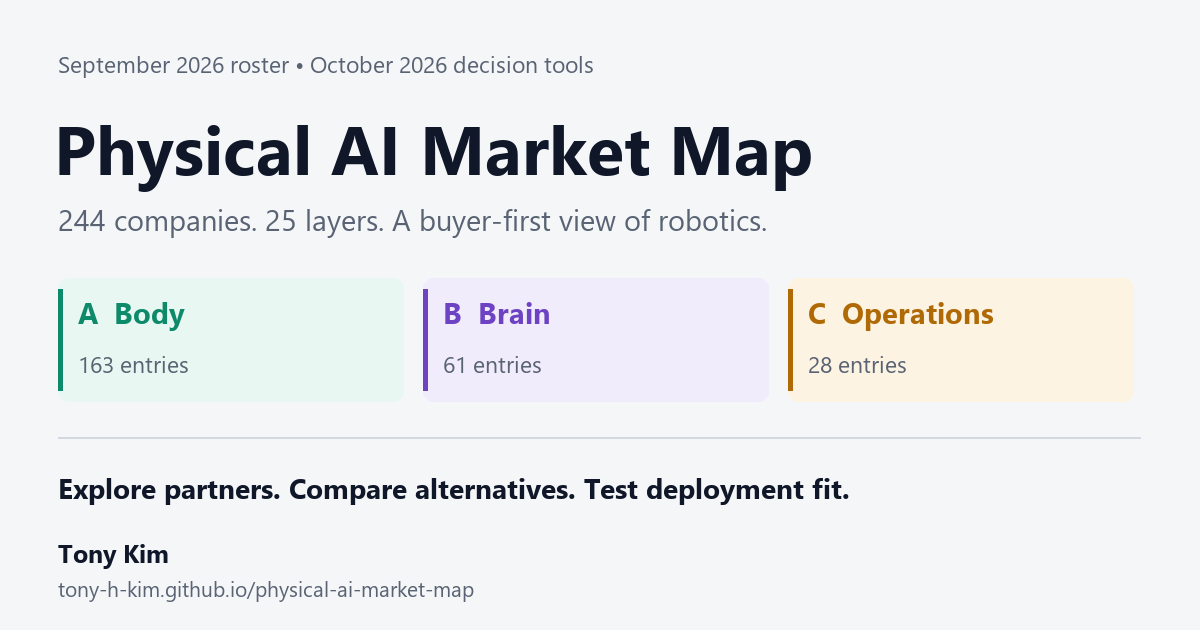
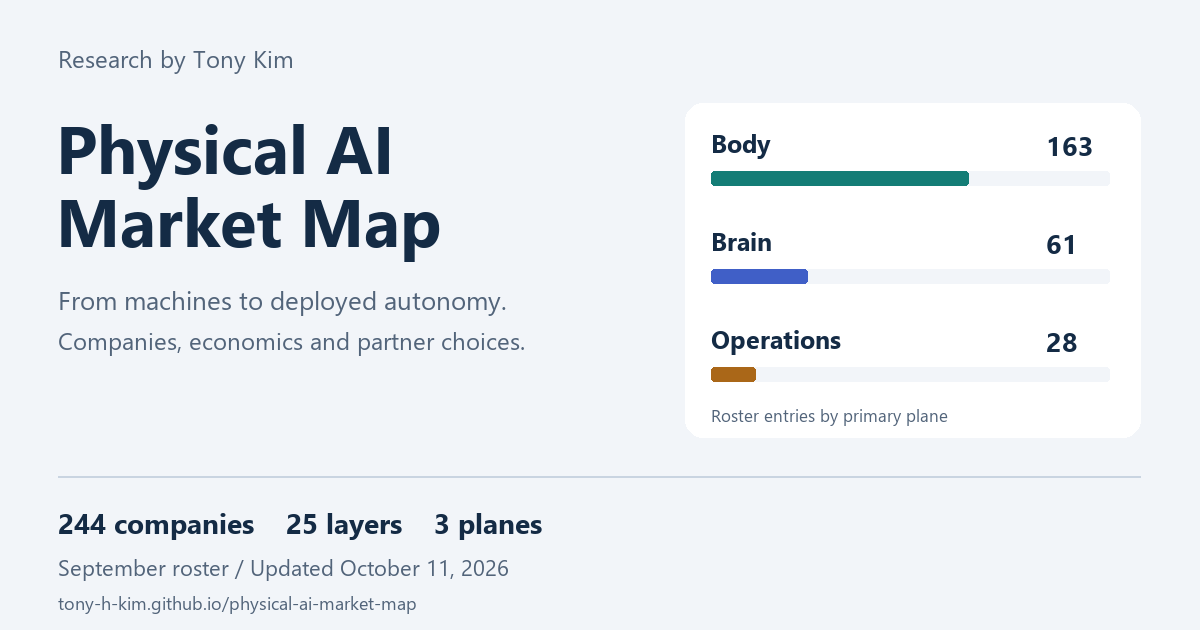
Redesign research overview with interactive landscape charts

diff --git a/index.html b/index.html
@@ -22,7 +22,7 @@
 <title>Physical AI Market Map 2026</title>
 <link rel="preconnect" href="https://fonts.googleapis.com">
 <link rel="preconnect" href="https://fonts.gstatic.com" crossorigin>
-<link rel="stylesheet" href="https://fonts.googleapis.com/css2?family=Inter:wght@400;500;600;700&family=JetBrains+Mono:wght@400;500;600&display=swap">
+<link rel="stylesheet" href="https://fonts.googleapis.com/css2?family=IBM+Plex+Sans:wght@400;500;600;700&family=Inter:wght@400;500;600;700&display=swap">
 <style>
   :root{
     --bg:#f4f6f8; --card:#ffffff; --sub:#fafbfc;
@@ -578,18 +578,109 @@
   @media(max-width:820px){.wb-layout{grid-template-columns:1fr}.wb-partner dl{grid-template-columns:1fr;gap:3px}.wb-partner dd{margin-bottom:8px}.workload-launch{grid-template-columns:repeat(3,minmax(0,1fr))}.workload-launch #export-filtered{justify-self:start;grid-column:1/-1}}
   @media(max-width:480px){header{padding-top:6px}header .meta{line-height:1.6}.theme-control{float:none;display:block;margin:0 0 12px}.workload-launch{grid-template-columns:1fr}.workload-launch button[data-workload]{padding:10px 12px}.wb-partner,.wb-brief{padding:16px}.wb-partner dl{line-height:1.55}.wb-brief p,.wb-brief li{font-size:var(--fs-xs)}}
   @media(prefers-reduced-motion:reduce){*,*::before,*::after{scroll-behavior:auto!important;transition:none!important;animation:none!important}}
+
+  header.compact .hero{display:block}header.compact .hero-figure,header.compact .sub{display:none}header.compact h1{font-size:var(--fs-h2);max-width:none;margin:0;letter-spacing:-.02em}header.compact h1 br{display:none}header.compact .masthead{margin-bottom:14px}header.compact .hero-meta{margin-top:14px;padding-top:10px}header.compact{padding-bottom:16px}
+  /* Research canvas: charts share a surface; the system diagram carries the identity. */
+  :root{--bg:#f2f5f9;--card:#ffffff;--sub:#f6f8fb;--fg:#142b45;--ink:#142b45;--fg2:#52647a;--fg3:#596b80;--line:#e0e7ef;--line2:#c9d4e1;--body:#147d76;--bodybg:#e7f4f1;--brain:#405fc7;--brainbg:#edf0fc;--ops:#aa6718;--opsbg:#fbf1e2;--info:#3156b5;--sans:Inter,"Segoe UI",Arial,sans-serif;--display:"IBM Plex Sans",Inter,"Segoe UI",sans-serif;--fs-display:clamp(34px,4vw + 10px,66px);--fs-metric:clamp(28px,1.4vw + 18px,42px)}
+  :root[data-theme="dark"]{--bg:#101c2a;--card:#172638;--sub:#1c2e43;--fg:#edf3fb;--ink:#edf3fb;--fg2:#b3c3d7;--fg3:#a2b5cd;--line:#30445d;--line2:#455d78;--body:#69c6ba;--bodybg:#1b393c;--brain:#9daff8;--brainbg:#263451;--ops:#efbb76;--opsbg:#3e3326;--info:#a7c2ff}
+  @media(prefers-color-scheme:dark){:root:not([data-theme="light"]){--bg:#101c2a;--card:#172638;--sub:#1c2e43;--fg:#edf3fb;--ink:#edf3fb;--fg2:#b3c3d7;--fg3:#a2b5cd;--line:#30445d;--line2:#455d78;--body:#69c6ba;--bodybg:#1b393c;--brain:#9daff8;--brainbg:#263451;--ops:#efbb76;--opsbg:#3e3326;--info:#a7c2ff}}
+  .wrap{max-width:1440px;padding-top:24px}
+  h1,h2,h3,.oc-n,.pn{font-family:var(--display)}
+  header{padding:8px 0 22px;border-bottom:0}
+  .masthead{display:flex;align-items:center;justify-content:space-between;gap:16px;margin-bottom:24px;color:var(--fg2);font-size:var(--fs-xs)}
+  .masthead .theme-control{float:none;border-radius:20px;padding:6px 14px;background:transparent}
+  .hero{display:grid;grid-template-columns:minmax(0,1.25fr) minmax(0,1fr);gap:48px;align-items:center}
+  h1{max-width:12ch;font-weight:600;letter-spacing:-.045em;line-height:1.02;margin:0 0 20px}
+  header .sub{max-width:54ch;font-size:var(--fs-lede);line-height:1.55}
+  .hero-figure{margin:0;background:var(--card);border-radius:20px;padding:20px 24px 10px;overflow:hidden}
+  .hero-figure svg{display:block;width:100%;height:auto;min-width:0;font-family:var(--sans)}
+  .hero-figure figcaption{font-size:var(--fs-3xs);color:var(--fg2);text-align:center;margin:5px 0 8px}
+  .system-line{stroke:var(--line2);fill:none;stroke-width:2}
+  .system-box{stroke:none;fill:var(--sub)}
+  .system-label{fill:var(--fg);font-size:var(--fs-lede);font-weight:600}
+  .system-detail{fill:var(--fg2);font-size:var(--fs-xs)}
+  .system-a{fill:var(--body)}.system-b{fill:var(--brain)}.system-c{fill:var(--ops)}
+  .hero-meta{display:flex;align-items:center;gap:24px;flex-wrap:wrap;margin-top:24px;padding-top:16px;border-top:1px solid var(--line2);font-size:var(--fs-xs);color:var(--fg2)}
+  .hero-meta strong{font-weight:600;color:var(--fg)}
+  .research-notes{font-size:var(--fs-3xs);margin-left:auto;max-width:70ch}
+  .research-notes summary{cursor:pointer;color:var(--fg2)}.research-notes p{font-size:var(--fs-xs);margin:8px 0 0}
+  nav.tabs{background:var(--bg);border-bottom:1px solid var(--line2);padding:0;margin:0 0 22px;gap:28px}
+  .tab{border:0;border-bottom:3px solid transparent;border-radius:0;padding:12px 2px;background:transparent;box-shadow:none;font-size:var(--fs-sm);font-weight:600}
+  .tab[aria-selected="true"]{background:transparent;color:var(--fg);border-color:var(--body);box-shadow:none}
+  .tab:hover{border-bottom-color:var(--line2)}
+  .viewbar{gap:4px;flex-wrap:wrap;background:none;border:0;padding:0}
+  .vb{border:0!important;background:transparent;border-radius:6px;padding:8px 11px;font-size:var(--fs-xs);color:var(--fg2)}
+  .vb[aria-selected="true"]{background:var(--ink);color:var(--onink)}
+  .viewrow{align-items:flex-start;gap:18px}.vsearch input{min-width:230px;padding:9px 12px}
+  .viewhint{font-size:var(--fs-xs);margin-bottom:12px;max-width:78ch}
+  .count{font-family:var(--sans)}.count .csub{display:none}
+  .result-actions{display:flex;gap:8px;flex-wrap:wrap;align-items:center}.resultbar{margin-bottom:16px}.countrow{align-items:center}.count{margin-bottom:0}
+  .filter-disclosure{border-bottom:1px solid var(--line);padding-bottom:5px}.filter-disclosure>summary{padding:8px 0}
+  .overview-title{display:flex;justify-content:space-between;gap:20px;align-items:baseline;margin:16px 0}
+  .overview-title h2{margin:0}.overview-title p{font-size:var(--fs-xs);color:var(--fg2);margin:0;max-width:52ch}
+  .research-canvas{background:var(--card);border:1px solid var(--line);border-radius:14px;overflow:hidden;display:grid;grid-template-columns:1fr 1fr}
+  .chart-section{padding:26px 30px;min-width:0}
+  .chart-section:nth-child(2n){border-left:1px solid var(--line)}.chart-section:nth-child(n+3){border-top:1px solid var(--line)}
+  .chart-section h3{font-family:var(--display);font-size:var(--fs-lede);margin:0 0 5px;font-weight:600}
+  .chart-caption{font-size:var(--fs-xs);color:var(--fg2);line-height:1.5;margin:0 0 20px;max-width:64ch}
+  .chart-foot{font-size:var(--fs-3xs);color:var(--fg2);margin:18px 0 0;max-width:72ch}
+  .stack-row{display:grid;grid-template-columns:120px minmax(0,1fr) 42px;gap:16px;align-items:center;width:100%;background:none;color:var(--fg);font:inherit;border:0;border-radius:5px;text-align:left;padding:12px 0;cursor:pointer}
+  .stack-row:hover,.plot-row:hover{background:var(--sub)}
+  .stack-row .stack-name{font-size:var(--fs-sm);font-weight:600}.stack-row .stack-value{font-family:var(--display);font-size:var(--fs-metric);text-align:right;line-height:1}
+  .plot-track{display:flex;background:var(--sub);height:12px;border-radius:3px;overflow:hidden}.plot-segment{height:100%;min-width:0}.plot-segment.A{background:var(--body)}.plot-segment.B{background:var(--brain)}.plot-segment.C{background:var(--ops)}
+  .stack-row .plot-track{height:20px}
+  .chart-key{display:flex;flex-wrap:wrap;gap:12px;margin:14px 0;font-size:var(--fs-3xs);color:var(--fg2)}.chart-key span{display:inline-flex;align-items:center;gap:6px}.chart-dot{width:8px;height:8px;border-radius:50%;background:var(--body)}.chart-dot.B{background:var(--brain)}.chart-dot.C{background:var(--ops)}
+  .plot-row{display:grid;grid-template-columns:100px minmax(0,1fr) 32px;gap:12px;align-items:center;width:100%;border:0;background:none;border-radius:4px;font:inherit;color:var(--fg);text-align:left;padding:7px 0;cursor:pointer}
+  .plot-label{font-size:var(--fs-xs);line-height:1.3}.plot-value{font-size:var(--fs-xs);font-weight:600;text-align:right; font-variant-numeric:tabular-nums}
+  .plot-axis{display:flex;justify-content:space-between;margin:2px 44px 8px 112px;font-size:var(--fs-3xs);color:var(--fg2)}
+  .model-chart .plot-row{grid-template-columns:145px minmax(0,1fr) 32px}.model-chart .plot-axis{margin-left:157px}
+  .stage-row{margin:0 0 16px}.stage-heading{font-size:var(--fs-xs);display:flex;justify-content:space-between;margin:0 0 7px;color:var(--fg2)}.stage-heading b{color:var(--fg)}
+  .stage-track{height:32px;display:flex;border-radius:4px;overflow:hidden;background:var(--sub)}
+  .stage-cell{border:0;padding:0;min-width:0;cursor:pointer;background:var(--sub);color:var(--fg);font:inherit;font-size:var(--fs-3xs);font-weight:600;position:relative}
+  .stage-cell.res{background:var(--line2)}.stage-cell.pilot{background:var(--brainbg);box-shadow:inset 0 0 0 1px var(--brain)}.stage-cell.comm{background:var(--bodybg);box-shadow:inset 0 0 0 1px var(--body)}.stage-cell.scaled{background:var(--body);color:var(--card)}
+  .stage-cell:hover{filter:brightness(.92)}.stage-cell:focus-visible{outline-offset:-3px}.stage-legend span{display:flex;align-items:center;gap:6px}.stage-legend .stage-cell{width:12px;height:12px;display:inline-block;border-radius:2px;cursor:default;flex:none}
+  .stage-legend{display:grid;grid-template-columns:1fr 1fr;gap:8px 16px;margin-top:20px;font-size:var(--fs-xs);color:var(--fg2)}.stage-legend b{color:var(--fg)}
+  .atlas{margin-top:26px;border-bottom:1px solid var(--line2);padding-bottom:22px}.atlas>summary{cursor:pointer;font-family:var(--display);font-size:var(--fs-lede);font-weight:600;color:var(--fg)}.atlas>p{color:var(--fg2);font-size:var(--fs-xs);margin:8px 0 20px}
+  .atlas-grid{display:grid;grid-template-columns:repeat(3,minmax(0,1fr));gap:36px;margin-top:20px}.atlas-plane h3{margin:0 0 12px}.atlas-row{display:grid;grid-template-columns:minmax(0,1fr) 66px 22px;gap:8px;align-items:center;background:none;border:0;border-bottom:1px solid var(--line);width:100%;font:inherit;font-size:var(--fs-3xs);text-align:left;color:var(--fg);padding:9px 0;cursor:pointer}.atlas-row:hover{color:var(--info)}
+  .atlas-row .plot-track{height:6px}.atlas-row .plot-value{font-size:var(--fs-3xs)}
+  .route-heading{margin:28px 0 14px!important}.overview-routes{display:grid;grid-template-columns:repeat(3,minmax(0,1fr));gap:28px}.route-button{border:0;border-top:3px solid var(--line2);background:none;padding:18px 0;text-align:left;color:var(--fg);cursor:pointer;font:inherit}.route-button:hover{border-color:var(--body)}.route-button strong{display:block;font-family:var(--display);font-size:var(--fs-body);margin-bottom:5px}.route-button span{display:block;color:var(--fg2);font-size:var(--fs-xs);max-width:38ch}.route-button em{display:inline-block;font-style:normal;font-size:var(--fs-xs);color:var(--info);margin-top:12px}
+  .planehead{padding:18px 22px}.plane{border-radius:10px}.lmeta{background:var(--card)}.lcode{font-family:var(--sans);color:var(--fg2)}.grp{background:var(--sub)}.co .g{font-family:var(--sans)}
+  .ocard{border-radius:8px;background:var(--card)}.oc-b{font-family:var(--sans);letter-spacing:0;text-transform:none}
+  #t-insights .h2sub,#t-method .h2sub,#t-insights>div>p,#t-method>div>p,.noteblock p{max-width:78ch}
+  .lede{box-shadow:none;border-radius:6px;line-height:1.65}.tblwrap{box-shadow:none;border-radius:8px}.screen tbody tr:hover{background:var(--sub)}
+  .subtabs{gap:6px}.noteblock{margin-top:36px}footer{box-shadow:none;background:transparent;border:0;border-top:1px solid var(--line2);border-radius:0;padding:20px 0}
+  body:has(.vh-overview) .workload-launch{display:none}
+  @media(max-width:1050px){.hero{gap:24px;grid-template-columns:1.15fr 1fr}.viewrow{flex-direction:column}.vsearch{width:100%;max-width:none;flex:0 0 auto;margin-left:0}.vsearch input{width:100%}.chart-section{padding:22px}.research-notes{margin-left:0}}
+  @media(max-width:760px){.wrap{padding-top:16px}.hero{grid-template-columns:1fr;gap:20px}h1{max-width:18ch;--fs-display:clamp(34px,6vw,48px);margin-bottom:14px}.hero-figure{max-width:540px;padding:12px 20px 6px}.hero-figure svg{max-height:220px}.masthead{margin-bottom:18px}.hero-meta{gap:10px 20px;margin-top:18px}.research-canvas{grid-template-columns:1fr}.chart-section:nth-child(2n){border-left:0}.chart-section:nth-child(n+2){border-top:1px solid var(--line)}.overview-title{display:block}.overview-title p{margin-top:8px}.atlas-grid{grid-template-columns:1fr;gap:22px}.overview-routes{grid-template-columns:1fr;gap:0}.route-button{padding:16px 0}.stage-cell{font-size:var(--fs-3xs)}nav.tabs{gap:24px}.vb{padding:7px 9px}.filter-disclosure>summary span{display:none}.stack-row{grid-template-columns:110px minmax(0,1fr) 42px;gap:12px}}
+  @media(max-width:400px){.chart-section{padding:20px 16px}.model-chart .plot-row{grid-template-columns:118px minmax(0,1fr) 28px}.model-chart .plot-axis{margin-left:130px}.hero-figure{padding:8px 12px}.masthead{font-size:var(--fs-3xs)}.masthead .theme-control{font-size:var(--fs-3xs);padding:5px 9px}.hero-meta{font-size:var(--fs-3xs)}}
+
 </style>
 </head>
 <body>
 <div class="wrap">
 
 <header>
-  <button class="theme-control" id="theme-toggle" type="button" aria-label="Change color theme">Theme: system</button>
-  <div class="eyebrow">Market landscape · September 2026 roster</div>
-  <h1>Physical AI Market Map</h1>
-  <div class="sub">Explore 244 companies by <strong>what the customer buys and how the seller gets paid</strong>. Start with a workload to evaluate partners, compare alternatives and define a deployment test.</div>
-  <div class="meta">V7-01 · Updated October 11, 2026 · September roster · selected financial checks October 11 · 25 layers across 3 planes · 244 companies · humanoid, industrial, AV, drone &amp; defense, construction, mining, agriculture<br>
-  Funding, valuation and revenue data: Crunchbase, PitchBook, CB Insights, Dealroom, TrendForce, Smart Analytics Global, TechCrunch, Bloomberg · Structural analysis: Goldman Sachs, Morgan Stanley, Roland Berger, Bullhound, McKinsey, IFR, The Robot Report</div>
+  <div class="masthead"><span>Research by Tony Kim</span><button class="theme-control" id="theme-toggle" type="button" aria-label="Change color theme">Theme: system</button></div>
+  <div class="hero">
+    <div><h1>Physical AI<br> Market Map</h1><div class="sub">From machines to deployed autonomy. Explore the companies, economics and partner choices behind physical AI.</div></div>
+    <figure class="hero-figure">
+      <svg viewBox="0 0 440 242" role="img" aria-labelledby="system-title system-desc">
+        <title id="system-title">The three planes of physical AI</title><desc id="system-desc">Body supplies the machine, Brain supplies perception and action, and Operations deploys and supports it. Deployment feedback informs improvements. This is a conceptual diagram, not a company relationship network.</desc>
+        <defs><marker id="system-arrow" viewBox="0 0 10 10" refX="9" refY="5" markerWidth="5" markerHeight="5" orient="auto"><path d="M0 0 L10 5 L0 10 Z" fill="var(--line2)"/></marker></defs>
+        <path class="system-line" d="M70 65 V98 H216 V112 M216 149 V169" marker-end="url(#system-arrow)"/>
+        <path class="system-line" d="M351 65 V98 H224 V112" marker-end="url(#system-arrow)"/>
+        <path class="system-line" d="M324 192 H415 V38 H391" marker-end="url(#system-arrow)"/>
+        <rect class="system-box" x="8" y="10" width="180" height="65" rx="8"/><rect class="system-box" x="232" y="10" width="168" height="65" rx="8"/>
+        <circle class="system-a" cx="26" cy="31" r="4"/><text class="system-label" x="38" y="38">Body</text><text class="system-detail" x="24" y="59">Machines &amp; components</text>
+        <circle class="system-b" cx="250" cy="31" r="4"/><text class="system-label" x="262" y="38">Brain</text><text class="system-detail" x="248" y="59">Perception &amp; action</text>
+        <rect x="113" y="113" width="210" height="39" rx="19" fill="var(--infobg)"/><text class="system-label" x="218" y="138" text-anchor="middle">Deployed autonomy</text>
+        <rect class="system-box" x="113" y="170" width="210" height="58" rx="8"/><circle class="system-c" cx="133" cy="192" r="4"/><text class="system-label" x="145" y="199">Operations</text><text class="system-detail" x="131" y="219">Deployment &amp; assurance</text>
+      </svg><figcaption>A system view, organized by what the customer buys</figcaption>
+    </figure>
+  </div>
+  <div class="hero-meta"><span><strong>244</strong> companies</span><span><strong>25</strong> layers</span><span>Updated October 11, 2026</span>
+    <details class="research-notes"><summary>Coverage &amp; sources</summary><p>V8-00. September 2026 roster; selected financial claims checked October 11. 252 entries include eight separately mapped products or business units. Covers humanoids, industrial robotics, AVs, drones and defense, construction, mining and agriculture.</p><p>Financial sources include PitchBook, Crunchbase, company announcements and cited reporting. Structural research includes IFR, Goldman Sachs, Morgan Stanley, Roland Berger and McKinsey. Dates and claim-level sources appear in profiles; classifications are explained in Method.</p></details>
+  </div>
 </header>
 
 <nav class="tabs" role="tablist" aria-label="Sections">
@@ -627,7 +718,8 @@
 
   <div class="viewrow">
     <div class="viewbar" role="tablist" aria-label="View">
-      <button class="vb" data-v="chain" role="tab" aria-selected="true" type="button">Value chain</button>
+      <button class="vb" data-v="overview" role="tab" aria-selected="true" type="button">Overview</button>
+      <button class="vb" data-v="chain" role="tab" aria-selected="false" type="button">Value chain</button>
       <button class="vb" data-v="industry" role="tab" aria-selected="false" type="button">By industry</button>
       <button class="vb" data-v="geo" role="tab" aria-selected="false" type="button">By geography</button>
       <button class="vb" data-v="matrix" role="tab" aria-selected="false" type="button">Layer &times; model</button>
@@ -642,7 +734,7 @@
     <button class="chip" data-workload="welding" type="button">Shipyard welding<span>Quality, access and safety</span></button>
     <button class="chip" data-workload="warehouse" type="button">Warehouse handling<span>Throughput and fleet economics</span></button>
     <button class="chip" data-workload="manipulation" type="button">Industrial manipulation<span>Dexterity, yield and changeover</span></button>
-    <button class="chip" id="export-filtered" type="button">Export filtered CSV</button>
+
   </div>
 
   <details id="filter-disclosure" class="filter-disclosure" open>
@@ -669,7 +761,7 @@
 
   </details>
   <div class="resultbar">
-    <div class="countrow"><div class="count" id="count" role="status" aria-live="polite"></div><button class="copylink" id="copylink" type="button" title="Copy a link that reopens this exact view">Copy link to this view</button></div>
+    <div class="countrow"><div class="count" id="count" role="status" aria-live="polite"></div><div class="result-actions"><button class="copylink" id="copylink" type="button" title="Copy a link that reopens this exact view">Copy link to this view</button><button class="copylink" id="export-filtered" type="button">Export filtered CSV</button></div></div>
     <div class="activef" id="activef"></div>
   </div>
 
@@ -1220,7 +1312,7 @@
 </section>
 
 <footer>
-  <strong>Physical AI Market Map</strong> · V7-01 · October 11, 2026 · compiled and written by Tony Kim<br>
+  <strong>Physical AI Market Map</strong> · V8-00 · October 11, 2026 · compiled and written by Tony Kim<br>
   Company roster is curated, not exhaustive — ~244 of an estimated 700+ companies in scope. Transaction marks in USD; 29 financial records reviewed October 11. Other private marks may be stale; rumors and announced-but-unclosed deals are flagged in amber.<br>
   The reliability arithmetic in Structure is the author's own estimate with all assumptions stated inline; it is not a sourced figure.<br>
   <span class="fineprint"><a href="https://www.linkedin.com/in/hagsoo-kim/" target="_blank" rel="noopener noreferrer">linkedin.com/in/hagsoo-kim</a> · <a href="https://github.com/tony-h-kim" target="_blank" rel="noopener noreferrer">github.com/tony-h-kim</a></span>
@@ -2622,11 +2714,11 @@ function csvText(rows,notes){
 }
 function exportCsv(rows,notes){
   const url=URL.createObjectURL(new Blob([csvText(rows,notes)],{type:'text/csv;charset=utf-8'}));
-  const a=document.createElement('a');a.href=url;a.download='physical_ai_'+(notes?'shortlist':'screen')+'_'+new Date().toLocaleDateString('en-CA',{timeZone:'America/Los_Angeles'})+'_V7-01.csv';a.click();setTimeout(()=>URL.revokeObjectURL(url),1000);
+  const a=document.createElement('a');a.href=url;a.download='physical_ai_'+(notes?'shortlist':'screen')+'_'+new Date().toLocaleDateString('en-CA',{timeZone:'America/Los_Angeles'})+'_V8-00.csv';a.click();setTimeout(()=>URL.revokeObjectURL(url),1000);
 }
 
 const state={v:new Set(),g:new Set(),p:new Set(),b:new Set(),m:new Set(),lay:null,big:false,spans:false,val:false,fs:false,dep:false,q:""};
-let view="chain";
+let view="overview";
 let lastRenderedView=null;
 const collapsed=new Set();
 
@@ -2707,6 +2799,45 @@ function coEl(c,opts){
   e.innerHTML=h;
   e.addEventListener('click',function(ev){ev.stopPropagation();openPanel(c);});
   return e;
+}
+
+
+// Each chart counts primary roster entries, including separately mapped products.
+function landscapeStats(rows){
+  const planes=PLANES.map(p=>({id:p.id,name:p.name,count:rows.filter(c=>c.l[0]===p.id).length}));
+  const geos=GEOS.map(([id,name])=>({id,name,count:rows.filter(c=>c.g===id).length,planes:planes.map(p=>({id:p.id,count:rows.filter(c=>c.g===id&&c.l[0]===p.id).length}))})).sort((a,b)=>b.count-a.count);
+  const models=BMORDER.map(id=>({id,name:BMSHORT[id],count:rows.filter(c=>bmOf(c)===id).length})).sort((a,b)=>b.count-a.count);
+  const stages=planes.map(p=>({id:p.id,name:p.name,count:p.count,values:MATORDER.map(id=>({id,count:rows.filter(c=>c.l[0]===p.id&&matOf(c)===id).length}))}));
+  const layers=PLANES.flatMap(p=>p.layers.map(l=>({id:l.c,name:l.n,plane:p.id,count:rows.filter(c=>c.l===l.c).length})));
+  return {total:rows.length,planes,geos,models,stages,layers};
+}
+function entryLabel(count){return count===1?'entry':'entries';}
+function chartWidth(count,max){return max>0?100*count/max:0;}
+function overviewDrill(kind,id,plane){
+  if(kind==='plane'){state.p.clear();state.p.add(id);view='chain';}
+  if(kind==='geo'){state.g.clear();state.g.add(id);view='geo';}
+  if(kind==='model'){state.b.clear();state.b.add(id);view='table';}
+  if(kind==='stage'){state.p.clear();state.p.add(plane);state.m.clear();state.m.add(id);view='table';}
+  if(kind==='layer'){state.lay=id;view='chain';}
+  document.querySelectorAll('.vb').forEach(x=>x.setAttribute('aria-selected',String(x.dataset.v===view)));render();
+  document.querySelector('.vb[aria-selected="true"]').focus();
+}
+function viewOverview(host,rows){
+  const d=landscapeStats(rows),maxGeo=Math.max(0,...d.geos.map(g=>g.count)),maxModel=Math.max(0,...d.models.map(g=>g.count)),maxLayer=Math.max(0,...d.layers.map(g=>g.count));
+  const key='<div class="chart-key">'+d.planes.map(p=>'<span><i class="chart-dot '+p.id+'" aria-hidden="true"></i>'+p.name+'</span>').join('')+'</div>';
+  const segment=(p,max)=>'<span aria-hidden="true" class="plot-segment '+p.id+'" style="width:'+chartWidth(p.count,max)+'%"></span>';
+  const axis=max=>'<div class="plot-axis" aria-hidden="true"><span>0</span><span>'+max+' '+entryLabel(max)+'</span></div>';
+  host.innerHTML='<div class="overview-title"><h2>The landscape at a glance</h2><p>Roster composition, not market share. Counts reflect the '+d.total+' '+entryLabel(d.total)+' in your current selection.</p></div>'+
+  '<div class="research-canvas">'+
+  '<section class="chart-section" aria-labelledby="chart-stack"><h3 id="chart-stack">The physical AI stack</h3><p class="chart-caption">Three primary purchase categories connect the machine to its operating environment.</p>'+d.planes.map(p=>'<button type="button" class="stack-row" data-drill="plane" data-id="'+p.id+'" aria-label="Explore '+p.name+': '+p.count+' '+entryLabel(p.count)+'"><span class="stack-name">'+p.name+'</span><span class="plot-track">'+segment(p,d.total)+'</span><span class="stack-value">'+p.count+'</span></button>').join('')+'<p class="chart-foot">Bar lengths show each plane’s share of selected entries. Multiple products from one company can occupy different layers.</p></section>'+
+  '<section class="chart-section" aria-labelledby="chart-geo"><h3 id="chart-geo">Where companies are based</h3><p class="chart-caption">Headquarters distribution, split by primary plane.</p>'+key+axis(maxGeo)+d.geos.map(g=>'<button type="button" class="plot-row" data-drill="geo" data-id="'+g.id+'" aria-label="Explore '+g.name+': '+g.count+' '+entryLabel(g.count)+'; '+g.planes.map(p=>PLANEOF[p.id].name+' '+p.count).join(', ')+'"><span class="plot-label">'+esc(g.name)+'</span><span class="plot-track">'+g.planes.map(p=>segment(p,maxGeo)).join('')+'</span><span class="plot-value">'+g.count+'</span></button>').join('')+'<p class="chart-foot">Europe is grouped as a region; other labels are countries. Headquarters does not imply deployment location.</p></section>'+
+  '<section class="chart-section model-chart" aria-labelledby="chart-model"><h3 id="chart-model">How companies earn revenue</h3><p class="chart-caption">The primary business model assigned to each entry.</p>'+axis(maxModel)+d.models.map(g=>'<button type="button" class="plot-row" data-drill="model" data-id="'+g.id+'" aria-label="Explore '+BMF[g.id]+': '+g.count+' '+entryLabel(g.count)+'"><span class="plot-label">'+esc(BMF[g.id])+'</span><span class="plot-track"><span class="plot-segment B" aria-hidden="true" style="width:'+chartWidth(g.count,maxModel)+'%"></span></span><span class="plot-value">'+g.count+'</span></button>').join('')+'<p class="chart-foot">Counts describe this curated roster. They do not measure revenue, profitability or addressable market.</p></section>'+
+  '<section class="chart-section" aria-labelledby="chart-stage"><h3 id="chart-stage">Commercial stage across the stack</h3><p class="chart-caption">Each row shows the stage mix within one plane.</p>'+d.stages.map(p=>'<div class="stage-row"><div class="stage-heading"><b>'+p.name+'</b><span>'+p.count+' '+entryLabel(p.count)+'</span></div><div class="stage-track">'+p.values.filter(v=>v.count).map(v=>'<button type="button" class="stage-cell '+v.id+'" data-drill="stage" data-id="'+v.id+'" data-plane="'+p.id+'" style="width:'+chartWidth(v.count,p.count)+'%" aria-label="Explore '+p.name+', '+MATF[v.id]+': '+v.count+' of '+p.count+' '+entryLabel(p.count)+'" title="'+MATF[v.id]+': '+v.count+'">'+(v.count/p.count>=.12?v.count:'')+'</button>').join('')+'</div><div class="chart-foot" style="margin-top:6px">'+p.values.map(v=>MATF[v.id]+' '+v.count).join(' / ')+'</div></div>').join('')+'<div class="stage-legend">'+MATORDER.map(id=>'<span><i aria-hidden="true" class="stage-cell '+id+'"></i><b>'+MATF[id]+'</b>: '+d.stages.reduce((sum,p)=>sum+p.values.find(v=>v.id===id).count,0)+'</span>').join('')+'</div><p class="chart-foot">Author classifications based on the roster’s research baseline. Commercial status does not establish reliability for your workload.</p></section></div>'+
+  '<p class="chart-foot">Source: curated September 2026 roster with selected October 11 updates. <a href="#tab=method&s=method">Read the classification rules and sources</a>.</p>'+
+  '<details class="atlas"><summary>Explore the 25-layer atlas</summary><p>Compare coverage at a finer level. All mini bars share one scale, from 0 to '+maxLayer+' entries; select a layer to open its company map.</p><div class="atlas-grid">'+d.planes.map(p=>'<section class="atlas-plane"><h3>'+p.name+'</h3>'+d.layers.filter(l=>l.plane===p.id).map(l=>'<button type="button" class="atlas-row" data-drill="layer" data-id="'+l.id+'" aria-label="Explore '+l.id+' '+esc(l.name)+': '+l.count+' '+entryLabel(l.count)+'"><span>'+esc(l.name)+'</span><span class="plot-track">'+segment({id:p.id,count:l.count},maxLayer)+'</span><span class="plot-value">'+l.count+'</span></button>').join('')+'</section>').join('')+'</div></details>'+
+  '<h3 class="route-heading">Build a partner thesis around a real task</h3><div class="overview-routes">'+[['welding','Shipyard welding','Assess quality, physical access and the safety case.'],['warehouse','Warehouse handling','Compare throughput, intervention and fleet economics.'],['manipulation','Industrial manipulation','Evaluate dexterity, yield and changeover.']].map(([id,name,desc])=>'<button type="button" class="route-button" data-start-workload="'+id+'"><strong>'+name+'</strong><span>'+desc+'</span><em>Open partner workbench</em></button>').join('')+'</div>';
+  host.querySelectorAll('[data-drill]').forEach(b=>b.onclick=()=>overviewDrill(b.dataset.drill,b.dataset.id,b.dataset.plane));
+  host.querySelectorAll('[data-start-workload]').forEach(b=>b.onclick=()=>{resetAll();workload=b.dataset.startWorkload;view='workbench';document.querySelectorAll('.vb').forEach(x=>x.setAttribute('aria-selected',String(x.dataset.v===view)));render();document.querySelector('.vb[aria-selected="true"]').focus();});
 }
 
 function viewChain(host,shown){
@@ -2963,7 +3094,7 @@ function writeHash(){
     var sub=document.querySelector('#t-'+tab+' .subtabs button[aria-selected="true"]');
     if(sub) q.push('s='+sub.dataset.s);
   } else {
-    if(view!=='chain') q.push('view='+view);
+    if(view!=='overview') q.push('view='+view);
     if(view==='workbench')q.push('workload='+workload);
     if(sortKey!=='n'||sortDir!==1)q.push('sort='+sortKey+'&dir='+sortDir);
     if(state.p.size) q.push('p='+Array.from(state.p).join(','));
@@ -2999,9 +3130,9 @@ function readHash(){
   state.q = kv.q ? kv.q.toLowerCase().trim() : '';
   workload=WORKLOADS[kv.workload]?kv.workload:'welding';
   sortKey=['n','l','g','bm','mat','val','v'].includes(kv.sort)?kv.sort:'n';sortDir=kv.dir==='-1'?-1:1;
-  view='chain';
+  view='overview';
   var qEl=document.getElementById('q'); if(qEl) qEl.value = kv.q || '';
-  if(kv.view && ['chain','industry','geo','matrix','table','workbench','shortlist'].indexOf(kv.view)>=0){
+  if(kv.view && ['overview','chain','industry','geo','matrix','table','workbench','shortlist'].indexOf(kv.view)>=0){
     view=kv.view;
     document.querySelectorAll('.vb').forEach(function(x){x.setAttribute('aria-selected',String(x.dataset.v===view));});
   }
@@ -3082,6 +3213,7 @@ function resetAll(){
 }
 
 const VIEWHINT={
+  overview:"Read the landscape in four charts. Select a bar to inspect the companies behind it; all charts follow your roster filters.",
   chain:"Companies are grouped by their primary unit of sale. Expand or collapse a plane, filter the roster, or open a company profile.",
   industry:"The same companies regrouped by the industry they serve, for comparing who competes for the same buyer.",
   geo:"Where these companies are headquartered, and which layers each region concentrates in.",
@@ -3091,20 +3223,23 @@ const VIEWHINT={
   table:"Compare companies in a sortable table. Select a column to sort or a company to open its profile."
 };
 
+function syncHeader(){document.querySelector('header').classList.toggle('compact',view!=='overview'||document.getElementById('t-explore').hidden);}
 function render(){
-  if(view!==lastRenderedView){document.getElementById('filter-disclosure').open=(view!=='workbench'&&view!=='shortlist');lastRenderedView=view;}
+  syncHeader();
+  if(view!==lastRenderedView){document.getElementById('filter-disclosure').open=(view!=='overview'&&view!=='workbench'&&view!=='shortlist');lastRenderedView=view;}
   const focus=document.activeElement;
   const filterFocus=focus && focus.closest('.filters') ? focus.textContent : null;
   buildFilters();
   if(filterFocus){const replacement=Array.from(document.querySelectorAll('.filters button')).find(b=>b.textContent===filterFocus);if(replacement)replacement.focus();}
-  document.querySelector('.orient').hidden=(view==='workbench'||view==='shortlist');
+  document.querySelector('.orient').hidden=(view!=='chain');
   document.querySelectorAll('[data-workload]').forEach(b=>b.setAttribute('aria-pressed',String(view==='workbench'&&b.dataset.workload===workload)));
   document.getElementById('shortlist-count').textContent=shortlist.size;
   var shown=matched();
   var host=document.getElementById('viewhost');
   host.innerHTML='';
   host.className='vh-'+view;
-  if(view==='chain')viewChain(host,shown);
+  if(view==='overview')viewOverview(host,shown);
+  else if(view==='chain')viewChain(host,shown);
   else if(view==='industry')viewIndustry(host,shown);
   else if(view==='geo')viewGeo(host,shown);
   else if(view==='matrix')viewMatrix(host,shown);
@@ -3191,7 +3326,7 @@ function boot(){
   tabs.forEach(function(t){t.addEventListener('click',function(){
     tabs.forEach(function(x){x.setAttribute('aria-selected',String(x===t));document.getElementById(x.dataset.t).hidden=x!==t;});
     window.scrollTo({top:0,behavior:'smooth'});
-    writeHash();
+    syncHeader();writeHash();
   });});
   document.querySelectorAll('.subtabs').forEach(function(nav){
     var subs=[].slice.call(nav.querySelectorAll('button'));

diff --git a/check.js b/check.js
@@ -49,9 +49,23 @@ check('matched().some(c=>c.n==="Persona AI")');
 vm.runInContext('location.hash="#view=workbench&workload=warehouse&g=CN,INVALID&sort=val&dir=-1";readHash()',context);
 check('view==="workbench"&&workload==="warehouse"&&state.g.size===1&&state.g.has("CN")&&sortKey==="val"&&sortDir===-1');
 vm.runInContext('location.hash="";readHash()',context);
-check('view==="chain"&&state.g.size===0&&state.q===""&&sortKey==="n"&&sortDir===1');
+check('view==="overview"&&state.g.size===0&&state.q===""&&sortKey==="n"&&sortDir===1');
 vm.runInContext('location.hash="#q=%E0%A4%A&s=missing&view=INVALID";readHash()',context);
-check('view==="chain"&&state.q===""');
+check('view==="overview"&&state.q===""');
+
+check('landscapeStats(CO).planes.map(p=>p.count).join(",")==="163,61,28"');
+check('landscapeStats(CO).geos.reduce((sum,g)=>sum+g.count,0)===CO.length && landscapeStats(CO).geos.every(g=>g.planes.reduce((sum,p)=>sum+p.count,0)===g.count)');
+check('landscapeStats(CO).models.reduce((sum,g)=>sum+g.count,0)===CO.length');
+check('landscapeStats(CO).stages.every(p=>p.values.reduce((sum,v)=>sum+v.count,0)===p.count)');
+check('landscapeStats(CO).layers.length===25 && landscapeStats(CO).layers.reduce((sum,l)=>sum+l.count,0)===CO.length');
+check('landscapeStats([]).total===0 && landscapeStats([]).planes.every(p=>p.count===0) && chartWidth(0,0)===0');
+check('chartWidth(3,12)===25 && chartWidth(12,12)===100');
+check('landscapeStats(CO.filter(c=>c.g==="KR")).geos.filter(g=>g.count).every(g=>g.id==="KR")');
+vm.runInContext('location.hash="#view=overview&p=B";readHash()',context);
+check('view==="overview" && state.p.has("B") && landscapeStats(matched()).planes.find(p=>p.id==="A").count===0');
+vm.runInContext('location.hash="#view=chain";readHash()',context);
+check('view==="chain" && state.p.size===0');
+
 // Simulate unavailable storage; browsing must still boot without an exception.
 const blocked = vm.createContext({ ...context, localStorage: { getItem(){ throw Error('blocked'); } } });
 vm.runInContext(script.replace(/boot\(\);\s*$/, ''), blocked);

diff --git a/make_social_card.py b/make_social_card.py
@@ -14,24 +14,27 @@ try:
     def font(size, bold=False):
         name = ('segoeuib.ttf' if bold else 'segoeui.ttf') if windows_fonts.exists() else ('DejaVuSans-Bold.ttf' if bold else 'DejaVuSans.ttf')
         return ImageFont.truetype(str((windows_fonts if windows_fonts.exists() else linux_fonts) / name), size)
-    im = Image.new('RGB', (1200, 630), '#f4f6f8')
+    im = Image.new('RGB', (1200, 630), '#f2f5f9')
     draw = ImageDraw.Draw(im)
-    draw.text((58, 48), 'September 2026 roster • October 2026 decision tools', fill='#596373', font=font(23))
-    draw.text((54, 101), 'Physical AI Market Map', fill='#0f1729', font=font(68, True))
-    draw.text((58, 199), f'{total} companies. 25 layers. A buyer-first view of robotics.', fill='#596373', font=font(29))
-    colors = [('#0d8a6a', '#e9f7f2'), ('#6d43c4', '#f1ecfc'), ('#b06a05', '#fdf3e3')]
+    draw.text((58, 42), 'Research by Tony Kim', fill='#52647a', font=font(24))
+    draw.text((56, 101), 'Physical AI', fill='#142b45', font=font(67, True))
+    draw.text((56, 174), 'Market Map', fill='#142b45', font=font(67, True))
+    draw.text((58, 281), 'From machines to deployed autonomy.', fill='#52647a', font=font(26))
+    draw.text((58, 324), 'Companies, economics and partner choices.', fill='#52647a', font=font(24))
+    draw.rounded_rectangle((685, 103, 1140, 437), radius=18, fill='#ffffff')
+    colors = ['#147d76', '#405fc7', '#aa6718']
     for i, (plane, label) in enumerate([('A', 'Body'), ('B', 'Brain'), ('C', 'Operations')]):
-        x = 58 + i * 365
-        ink, bg = colors[i]
-        draw.rounded_rectangle((x, 278, x+345, 401), radius=10, fill=bg)
-        draw.rectangle((x, 289, x+4, 390), fill=ink)
-        draw.text((x+20, 292), f'{plane}  {label}', fill=ink, font=font(29, True))
+        y = 126 + i * 98
         count = sum(c['l'][0] == plane for c in co)
-        draw.text((x+20, 348), f'{count} entries', fill='#596373', font=font(23))
-    draw.line((58, 437, 1140, 437), fill='#d3d8e0', width=2)
-    draw.text((58, 468), 'Explore partners. Compare alternatives. Test deployment fit.', fill='#0f1729', font=font(28, True))
-    draw.text((58, 536), 'Tony Kim', fill='#0f1729', font=font(25, True))
-    draw.text((58, 574), 'tony-h-kim.github.io/physical-ai-market-map', fill='#596373', font=font(21))
+        draw.text((711, y), label, fill='#142b45', font=font(25, True))
+        draw.text((1046, y), str(count), fill='#142b45', font=font(27, True))
+        draw.rounded_rectangle((711, y+45, 1109, y+59), radius=3, fill='#f2f5f9')
+        draw.rounded_rectangle((711, y+45, 711+int(398*count/len(co)), y+59), radius=3, fill=colors[i])
+    draw.text((711, 403), 'Roster entries by primary plane', fill='#52647a', font=font(17))
+    draw.line((58, 476, 1140, 476), fill='#c9d4e1', width=2)
+    draw.text((58, 503), f'{total} companies    25 layers    3 planes', fill='#142b45', font=font(28, True))
+    draw.text((58, 552), 'September roster / Updated October 11, 2026', fill='#52647a', font=font(22))
+    draw.text((58, 590), 'tony-h-kim.github.io/physical-ai-market-map', fill='#52647a', font=font(18))
     im.save(root / 'og-image.png')
     print('Done — generated og-image.png from current roster')
 except (OSError, ValueError) as exc:

diff --git a/README.md b/README.md
@@ -34,8 +34,9 @@ Two distinctions this map draws that most others don't:
 
 Three sections, in the order a reader actually needs them.
 
-**Explore** — the companies, in seven views over one shared set of filters:
+**Explore** — the companies, in eight views over one shared set of filters:
 
+- *Overview* — four interactive charts for plane, headquarters, business model and commercial stage, plus an expandable 25-layer atlas
 - *Value chain* — the 25-layer map, every company in the one layer it sells
 - *By industry* — the same companies regrouped by the vertical they serve, for comparing who competes for the same buyer
 - *By geography* — headquarters, with the layer concentration of each region
@@ -49,6 +50,14 @@ Filter by plane, vertical, headquarters, business model, commercial maturity, an
 **Insights** — *Capital* (H1 2026 funding, the most valuable private companies, the capital/shipment inversion between the US and China) · *Value capture* (margin geography by layer) · *Investor view* (TAM disagreement, revenue reality, the exit window, incumbent response, six explicit positions) · *Ecosystem* (how NVIDIA, Schaeffler, Bosch and the Korean conglomerates built partnership ecosystems, where those become circular financing loops, and four tests for telling the two apart).
 
 **Method** — *Structure & taxonomy* (the taxonomy argument, and the reliability-economics case for why industrial deployment is harder than it looks) · *Method & sources* (taxonomy rules, valuation methodology, the business-model and maturity classifications, objections and responses, known weaknesses).
+
+## V8-00 — visual research overview, October 11, 2026
+
+The default view is now an interactive research overview. Four charts show plane composition, headquarters by plane, primary business model and commercial stage within each plane. All counts derive from the current filtered roster; bars open the corresponding detailed view. The expandable atlas compares all 25 layers on a common scale. Counts use entries rather than distinct companies and describe coverage, not market share; maturity remains an author classification.
+
+A conceptual system diagram introduces Body, Brain and Operations. The page uses IBM Plex Sans headings, Inter reading text, a navy/teal/blue/amber palette, calmer navigation, a shared chart canvas, shorter introductory copy and progressive disclosure of source context. Existing URLs, company profiles, decision tools and private shortlist notes remain available. The social preview follows the new visual identity. Validation includes 41 JavaScript checks and desktop/mobile review in both themes.
+
+Design references: [Dealroom ecosystem explorer](https://dealroom.co/ecosystems-network/?view=map) for overview-to-detail navigation; [Our World in Data Grapher](https://ourworldindata.org/redesigning-our-interactive-data-visualizations) for explicit chart context and controls. No runtime chart library is required.
 
 ## V7-01 — targeted financial refresh, October 11, 2026
 
